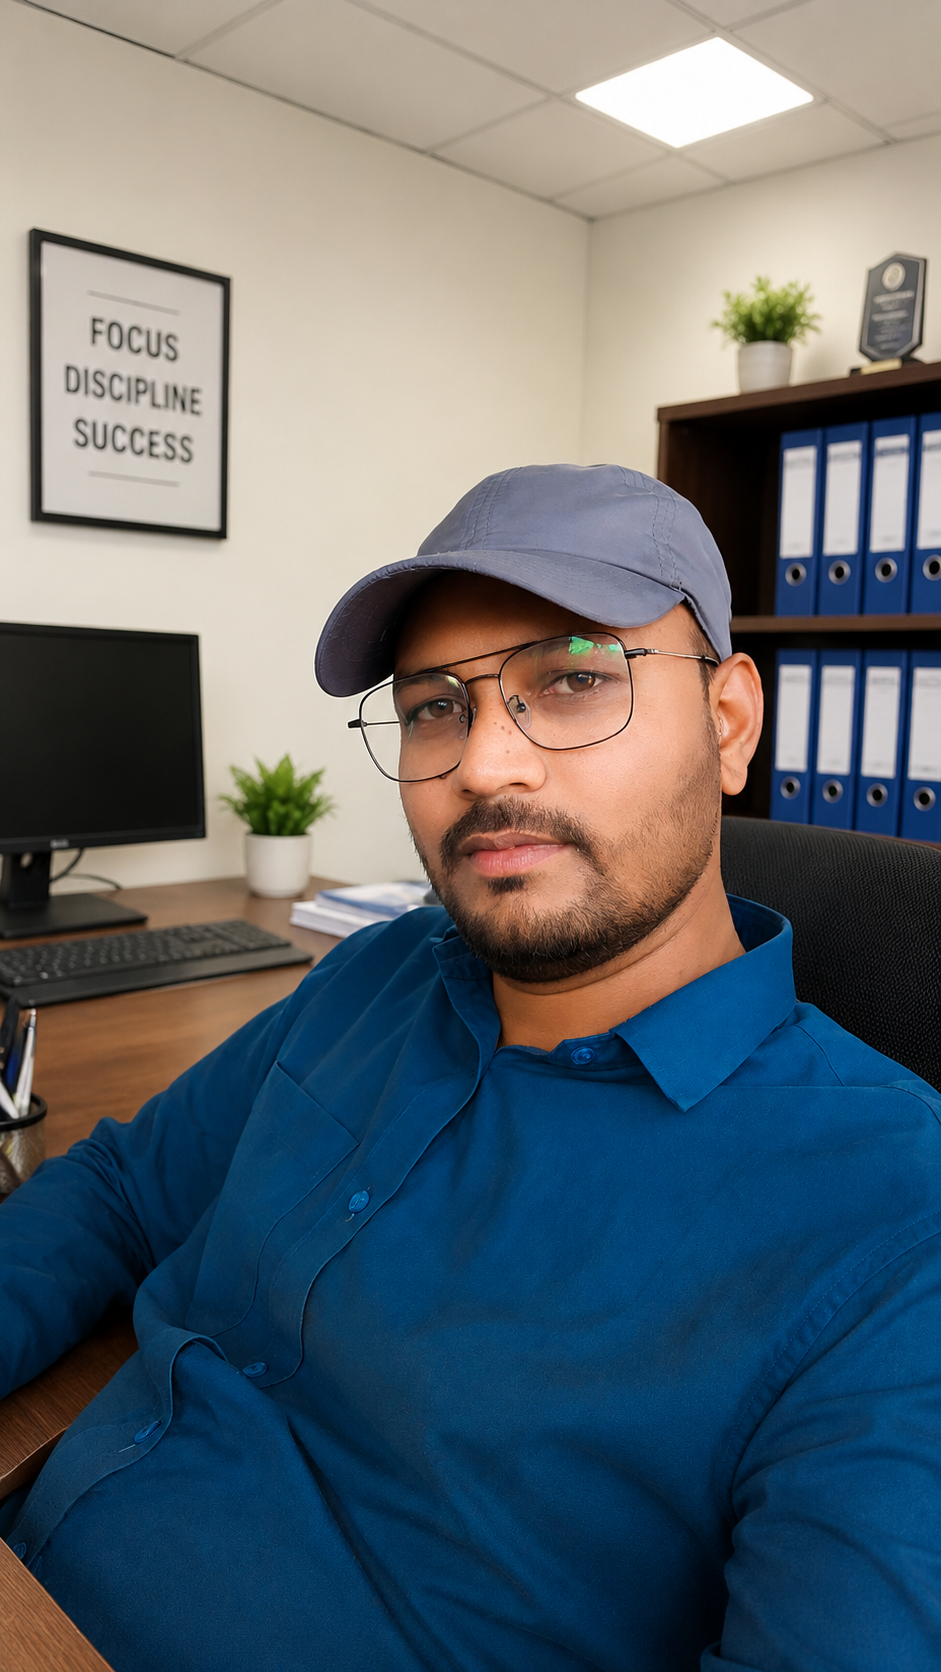
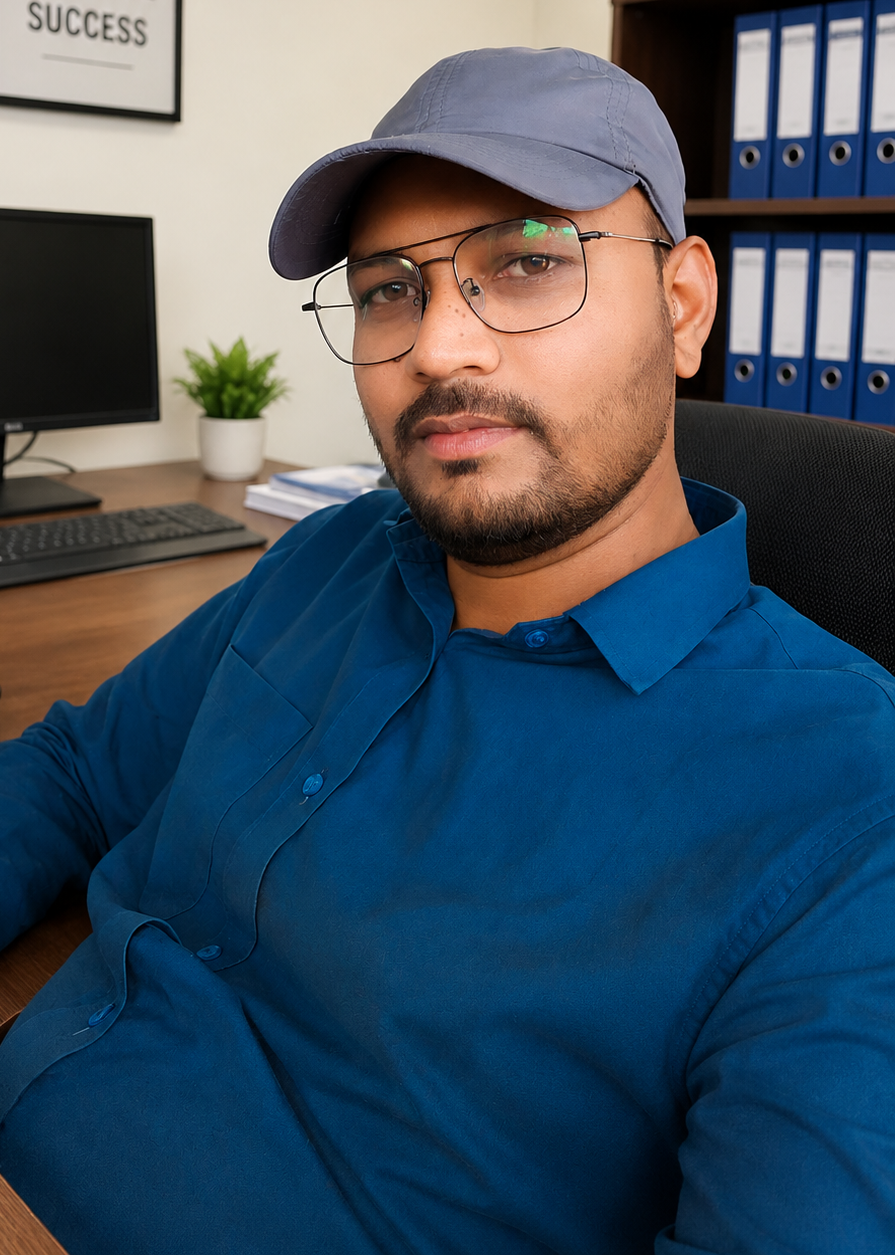
post change

diff --git a/src/pages/Products.jsx b/src/pages/Products.jsx
@@ -153,14 +153,14 @@ export default function Products() {
         <div className="md:col-span-4 bg-[#FDFBF7] border border-orange-100 p-6 rounded-3xl flex flex-col items-center text-center space-y-4 relative overflow-hidden">
           <div className="w-24 h-24 rounded-full overflow-hidden border-4 border-white shadow-md bg-slate-200">
             <img 
-              src="MD1.png" 
-              alt="Kailash Bhukar" 
+              src="MD2.png" 
+              alt="Manish Jangir" 
               className="w-full h-full object-cover"
             />
           </div>
           <div>
-            <h4 className="text-base font-black text-emerald-950 uppercase tracking-tight">Kailash Bhukar</h4>
-            <p className="text-[11px] text-orange-600 font-bold uppercase tracking-wider mt-0.5">Operational Head</p>
+            <h4 className="text-base font-black text-emerald-950 uppercase tracking-tight">Manish Jangir</h4>
+            <p className="text-[11px] text-orange-600 font-bold uppercase tracking-wider mt-0.5">CMO(Chief Marketing Officer)</p>
           </div>
           <div className="bg-white/80 p-3.5 rounded-xl border border-orange-100 text-[11px] text-slate-500 font-medium italic relative">
             <Quote className="w-8 h-8 text-orange-200 absolute -top-2 -left-1 opacity-40 pointer-events-none" />

diff --git a/src/pages/About.jsx b/src/pages/About.jsx
@@ -92,7 +92,7 @@ export default function About() {
 
   const directors = [
     { name: "MANISH DHAKA", role: "Managing Director & CEO", image: "MD.png" },
-    { name: "Manish Jangir", role: "Cluster Head", image: "MD2.png" },
+    { name: "Manish Jangir", role: "CMO(Chief Marketing Officer)", image: "MD2.png" },
     { name: "Ashok Kumar Alaria", role: "COO(Chief Operational Officer) ", image: "Ashok.png" },
     { name: "Kailash Bhukar", role: "Operational Head", image: "MD1.png" }
   ];
